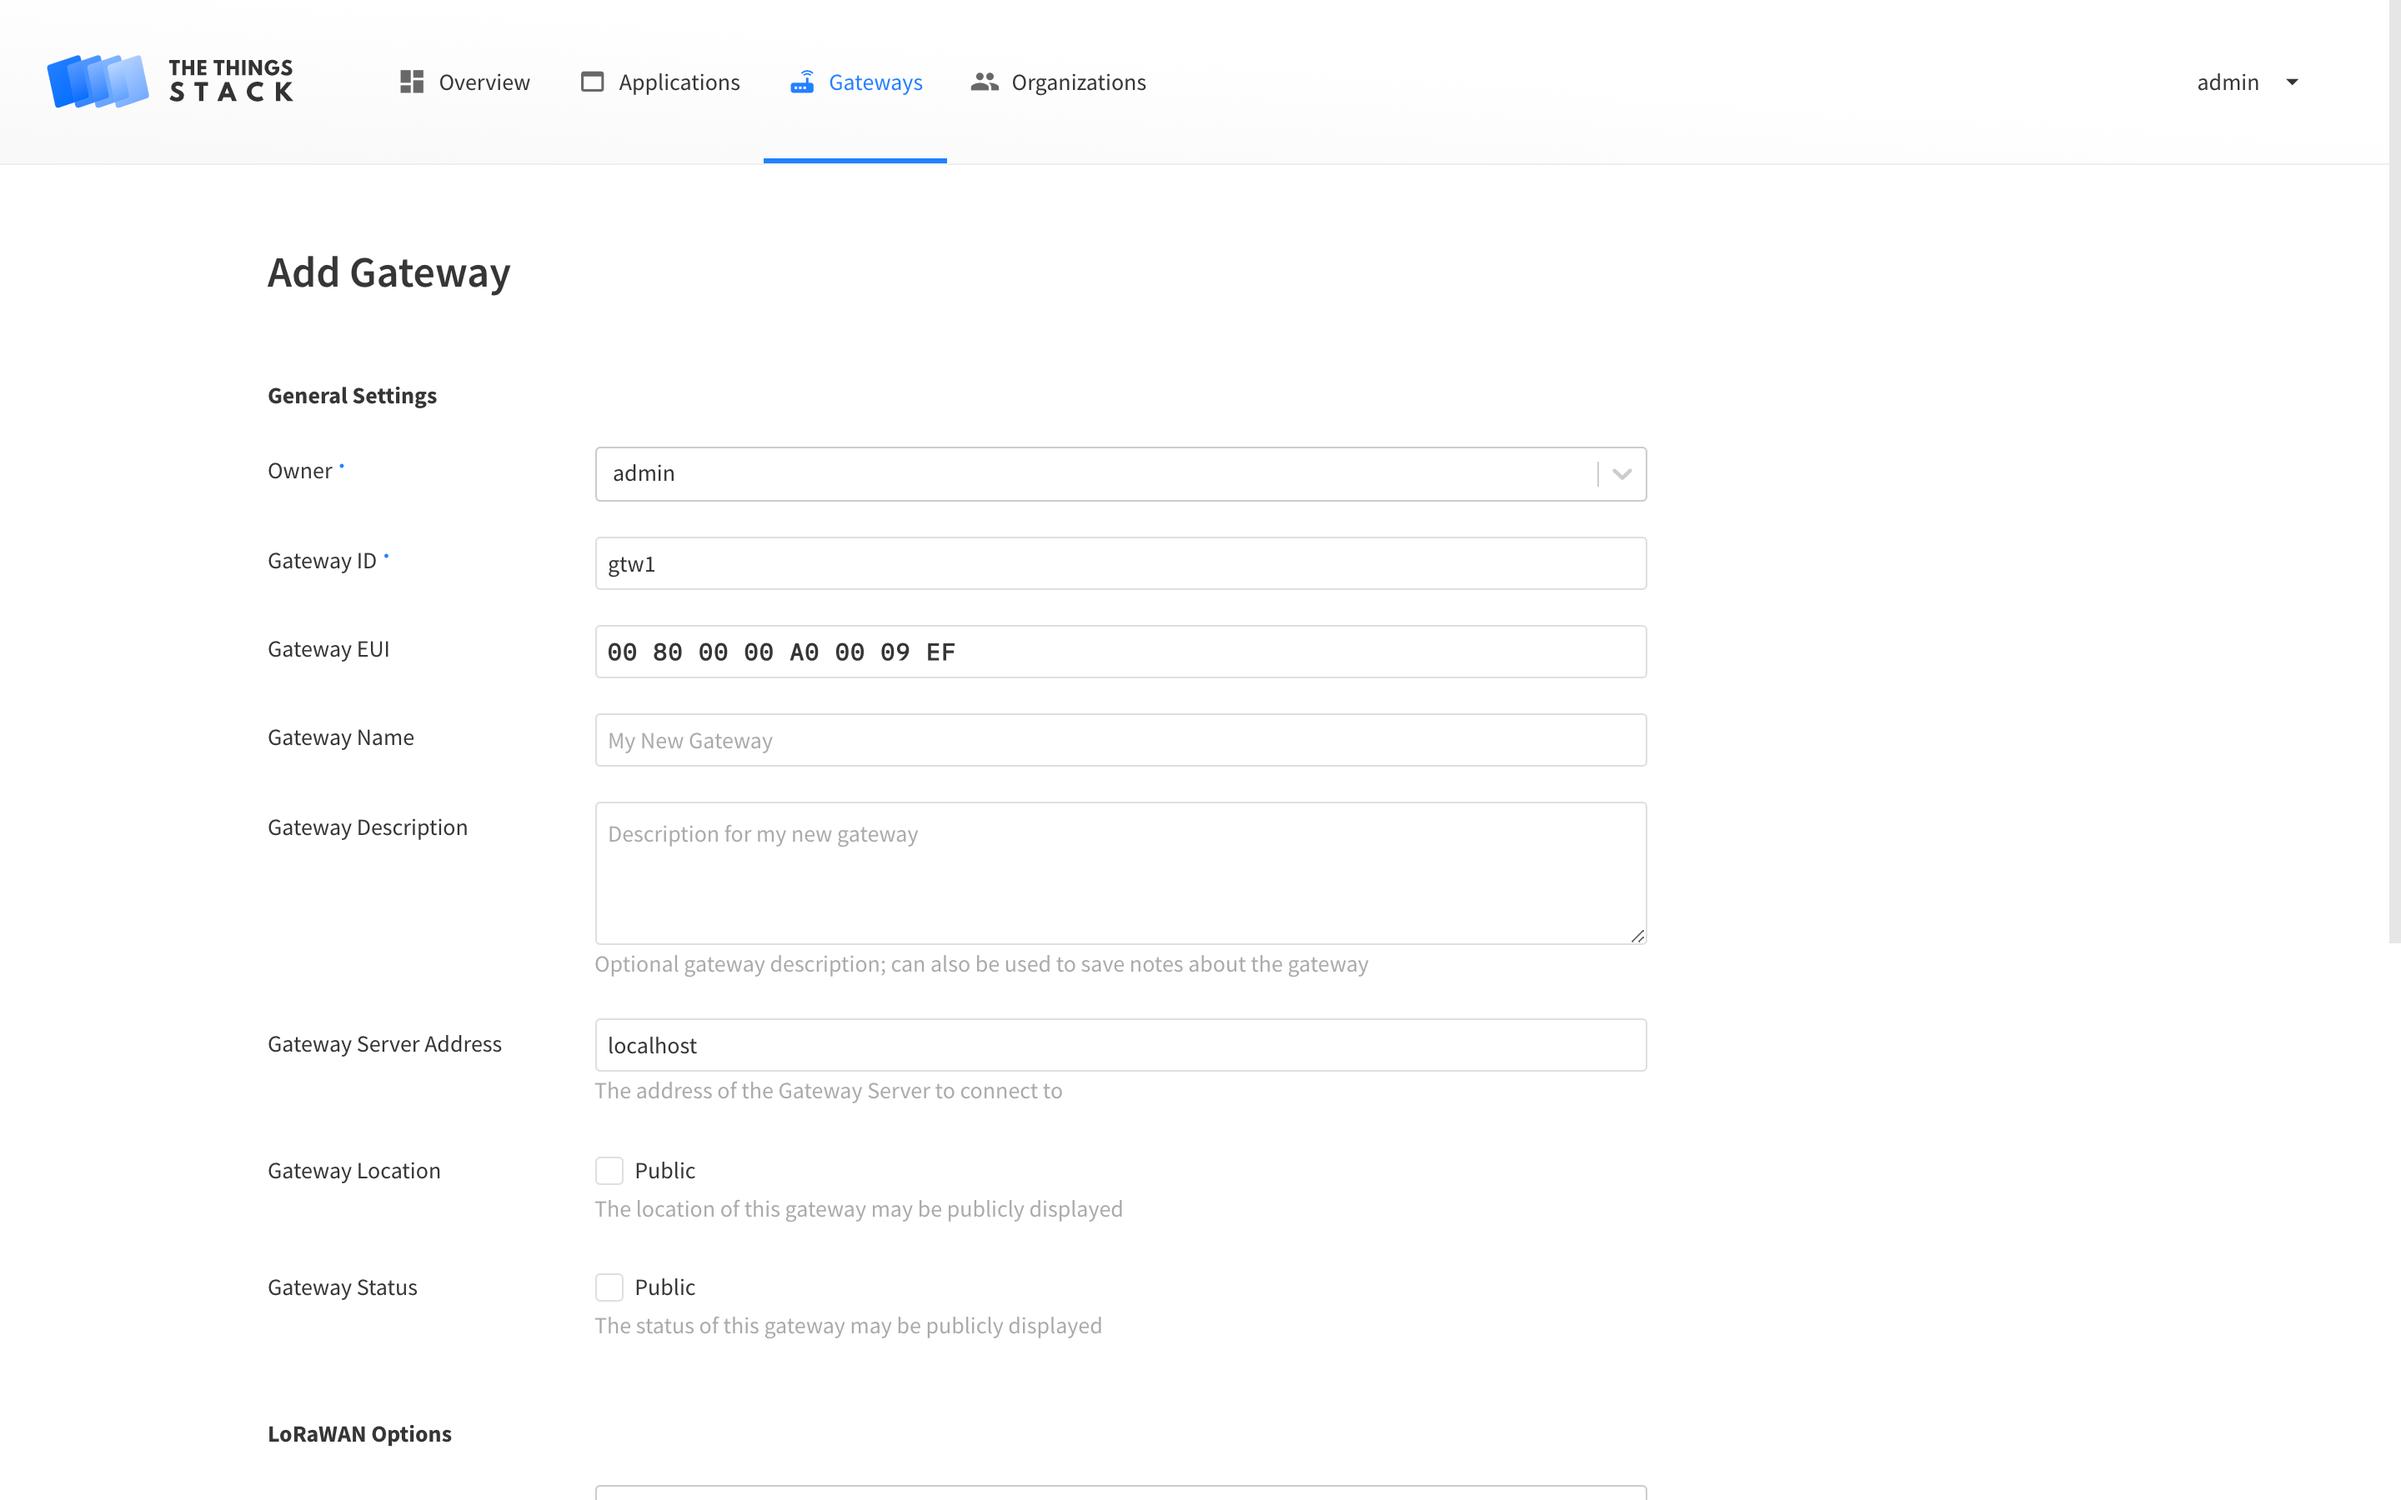
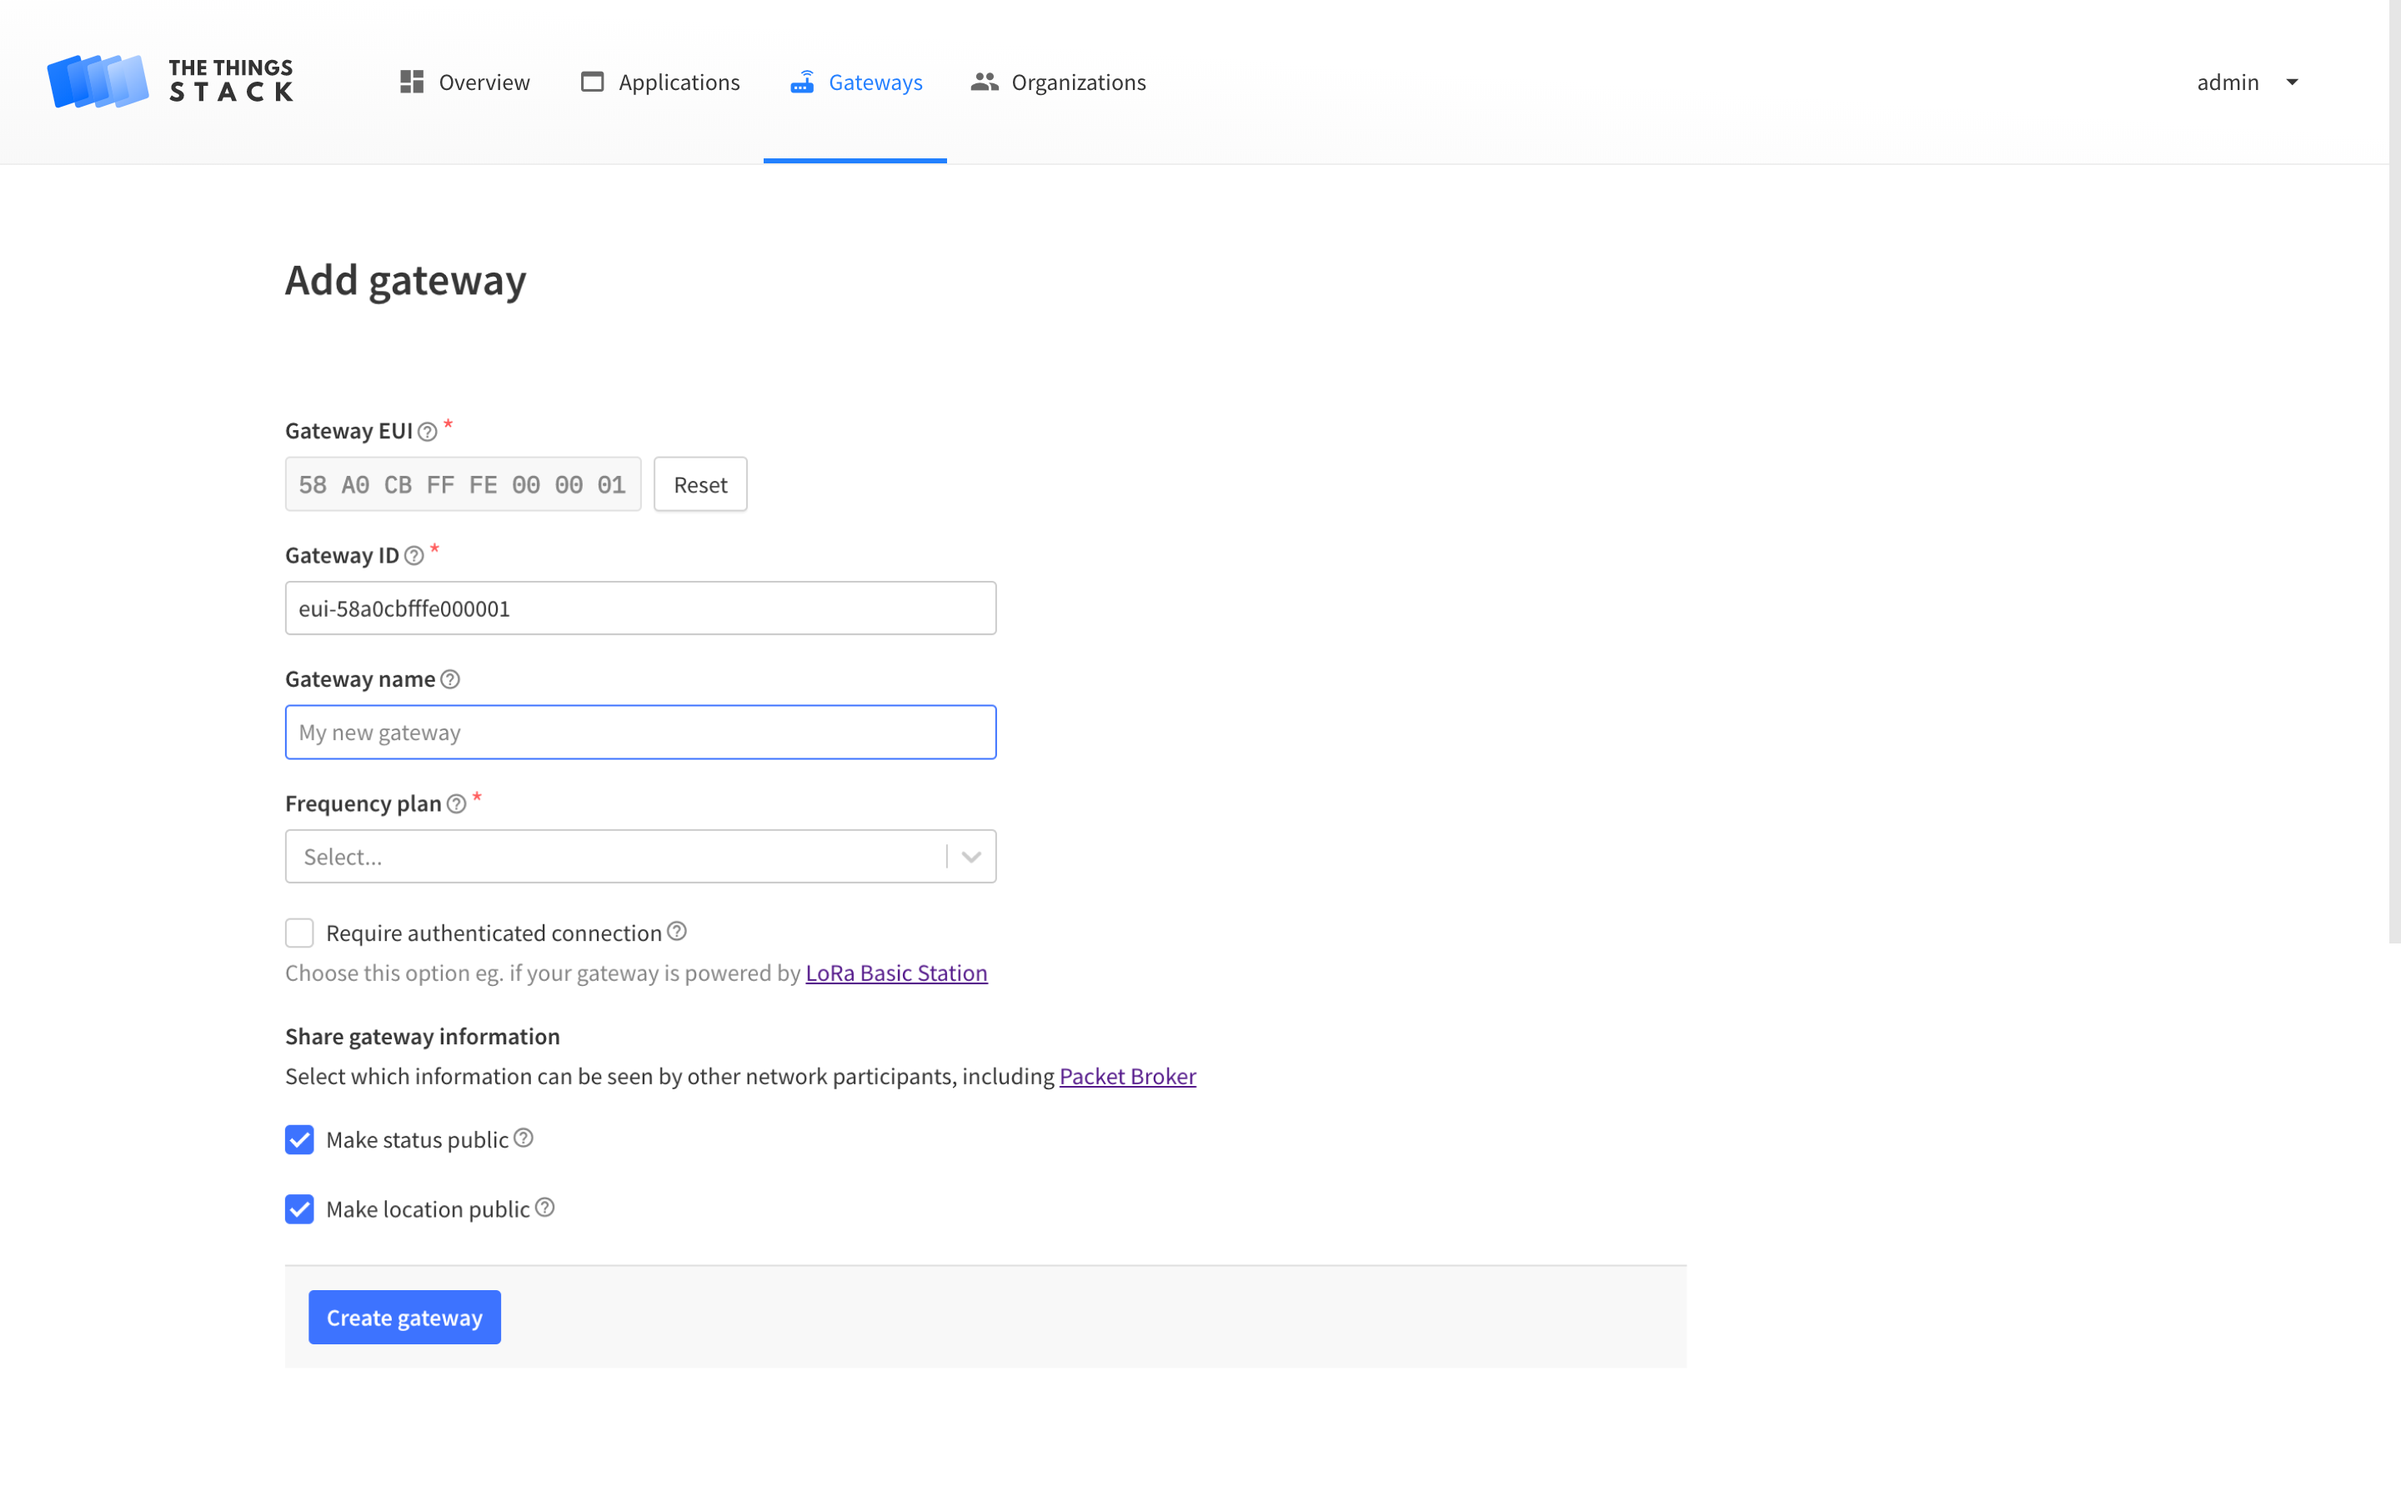
doc: Update console gateway onboarding

diff --git a/doc/content/gateways/adding-gateways/_index.md b/doc/content/gateways/adding-gateways/_index.md
@@ -25,17 +25,21 @@ Adding gateways using the Console or the CLI is usually most convenient, so thos
 
 ## Adding Gateways using the Console
 
-In addition to the written instructions below, a video with instructions for adding a gateway is available on [The Things Network youtube channel](https://youtu.be/o6nwc3APXns).
-
-<details><summary>Show video</summary>
-{{< youtube "o6nwc3APXns" >}}
-</details>
-
 Go to **Gateways** in the top menu, and click **+ Add Gateway** to reach the gateway registration page.
 
-Fill the **Gateway ID**, **Gateway EUI** (if your gateway has an EUI) and **Frequency Plan**. The other fields are optional. Click **Create Gateway** to finish.
+Fill the **Gateway EUI** and click **Confirm**.
+
+{{< figure src="gateway-add.png" alt="Gateway add" >}}
+
+Depending of weather the **Gateway EUI** is claimable you will either be shown the claiming form or the manual registration form.
+
+On the manual registration form fill in the **Frequency Plan**, The other fields are optional or pre filled. Click **Create Gateway** to finish.
 
 {{< figure src="gateway-creation.png" alt="Gateway creation" >}}
+
+On claiming form fill in the **Authentication Code**, **Gateway ID** and the **Frequency Plan**. Click **Create Gateway** to finish.
+
+{{< figure src="gateway-claim.png" alt="Gateway claiming" >}}
 
 Your gateway will be created and you will be redirected to the gateway overview page of your newly created gateway.
 
@@ -45,9 +49,9 @@ You can now connect your gateway to {{% tts %}}.
 
 ### Create Gateway API Key
 
-Some gateways require an API Key with Link Gateway Rights to be able to connect to {{% tts %}}. 
+Some gateways require an API Key with Link Gateway Rights to be able to connect to {{% tts %}}.
 
-In order to do this, navigate to the **API Keys** menu of your gateway and select **Add API Key**. 
+In order to do this, navigate to the **API Keys** menu of your gateway and select **Add API Key**.
 
 Enter a name for your key, select the **Link as Gateway to a Gateway Server for traffic exchange, i.e. write uplink and read downlink** right and then press **Create API Key**.
 
@@ -59,11 +63,11 @@ You will see a screen that shows your newly created API Key. You now can copy it
 
 ## Set Gateway Location
 
-Once you have added your gateway to {{% tts %}}, you can also set its location to be displayed on a map widget by clicking **Change location settings**. 
+Once you have added your gateway to {{% tts %}}, you can also set its location to be displayed on a map widget by clicking **Change location settings**.
 
 If you do not mind your gateway's location to be publicly displayed, check the **Publish location** box.
 
-The gateway location can be manually set by entering the **Latitude**, **Longitude** and **Altitude** values. 
+The gateway location can be manually set by entering the **Latitude**, **Longitude** and **Altitude** values.
 
 You can also check the **Update from status messages** box if you want to update the location based on the metadata from the incoming uplink gateway status messages. The location settings you manually entered will be overwritten by the updates from the gateway status messages.
 
@@ -80,7 +84,7 @@ You can also check the **Update from status messages** box if you want to update
 We define some user parameters that will be used below:
 
 ```bash
-GTW_ID="gtw1" 
+GTW_ID="gtw1"
 FREQUENCY_PLAN="EU_863_870"
 GTW_EUI="00800000A00009EF"
 USER_ID="admin"
@@ -122,9 +126,9 @@ ttn-lw-cli gateways api-keys create \
 
 The CLI will return an API key such as `NNSXS.VEEBURF3KR77ZR...`. This API key has only link rights and can therefore only be used for linking this gateway. Make sure to copy the key and save it in a safe place. You will not be able to see this key again in the future, and if you lose it, you can create a new one to replace it in the gateway configuration.
 
-## Set Gateway Location 
+## Set Gateway Location
 
-Once you have added your gateway to {{% tts %}}, you can also set the locations of the gateway antennas. 
+Once you have added your gateway to {{% tts %}}, you can also set the locations of the gateway antennas.
 
 Add an antenna and set its location  with:
 
